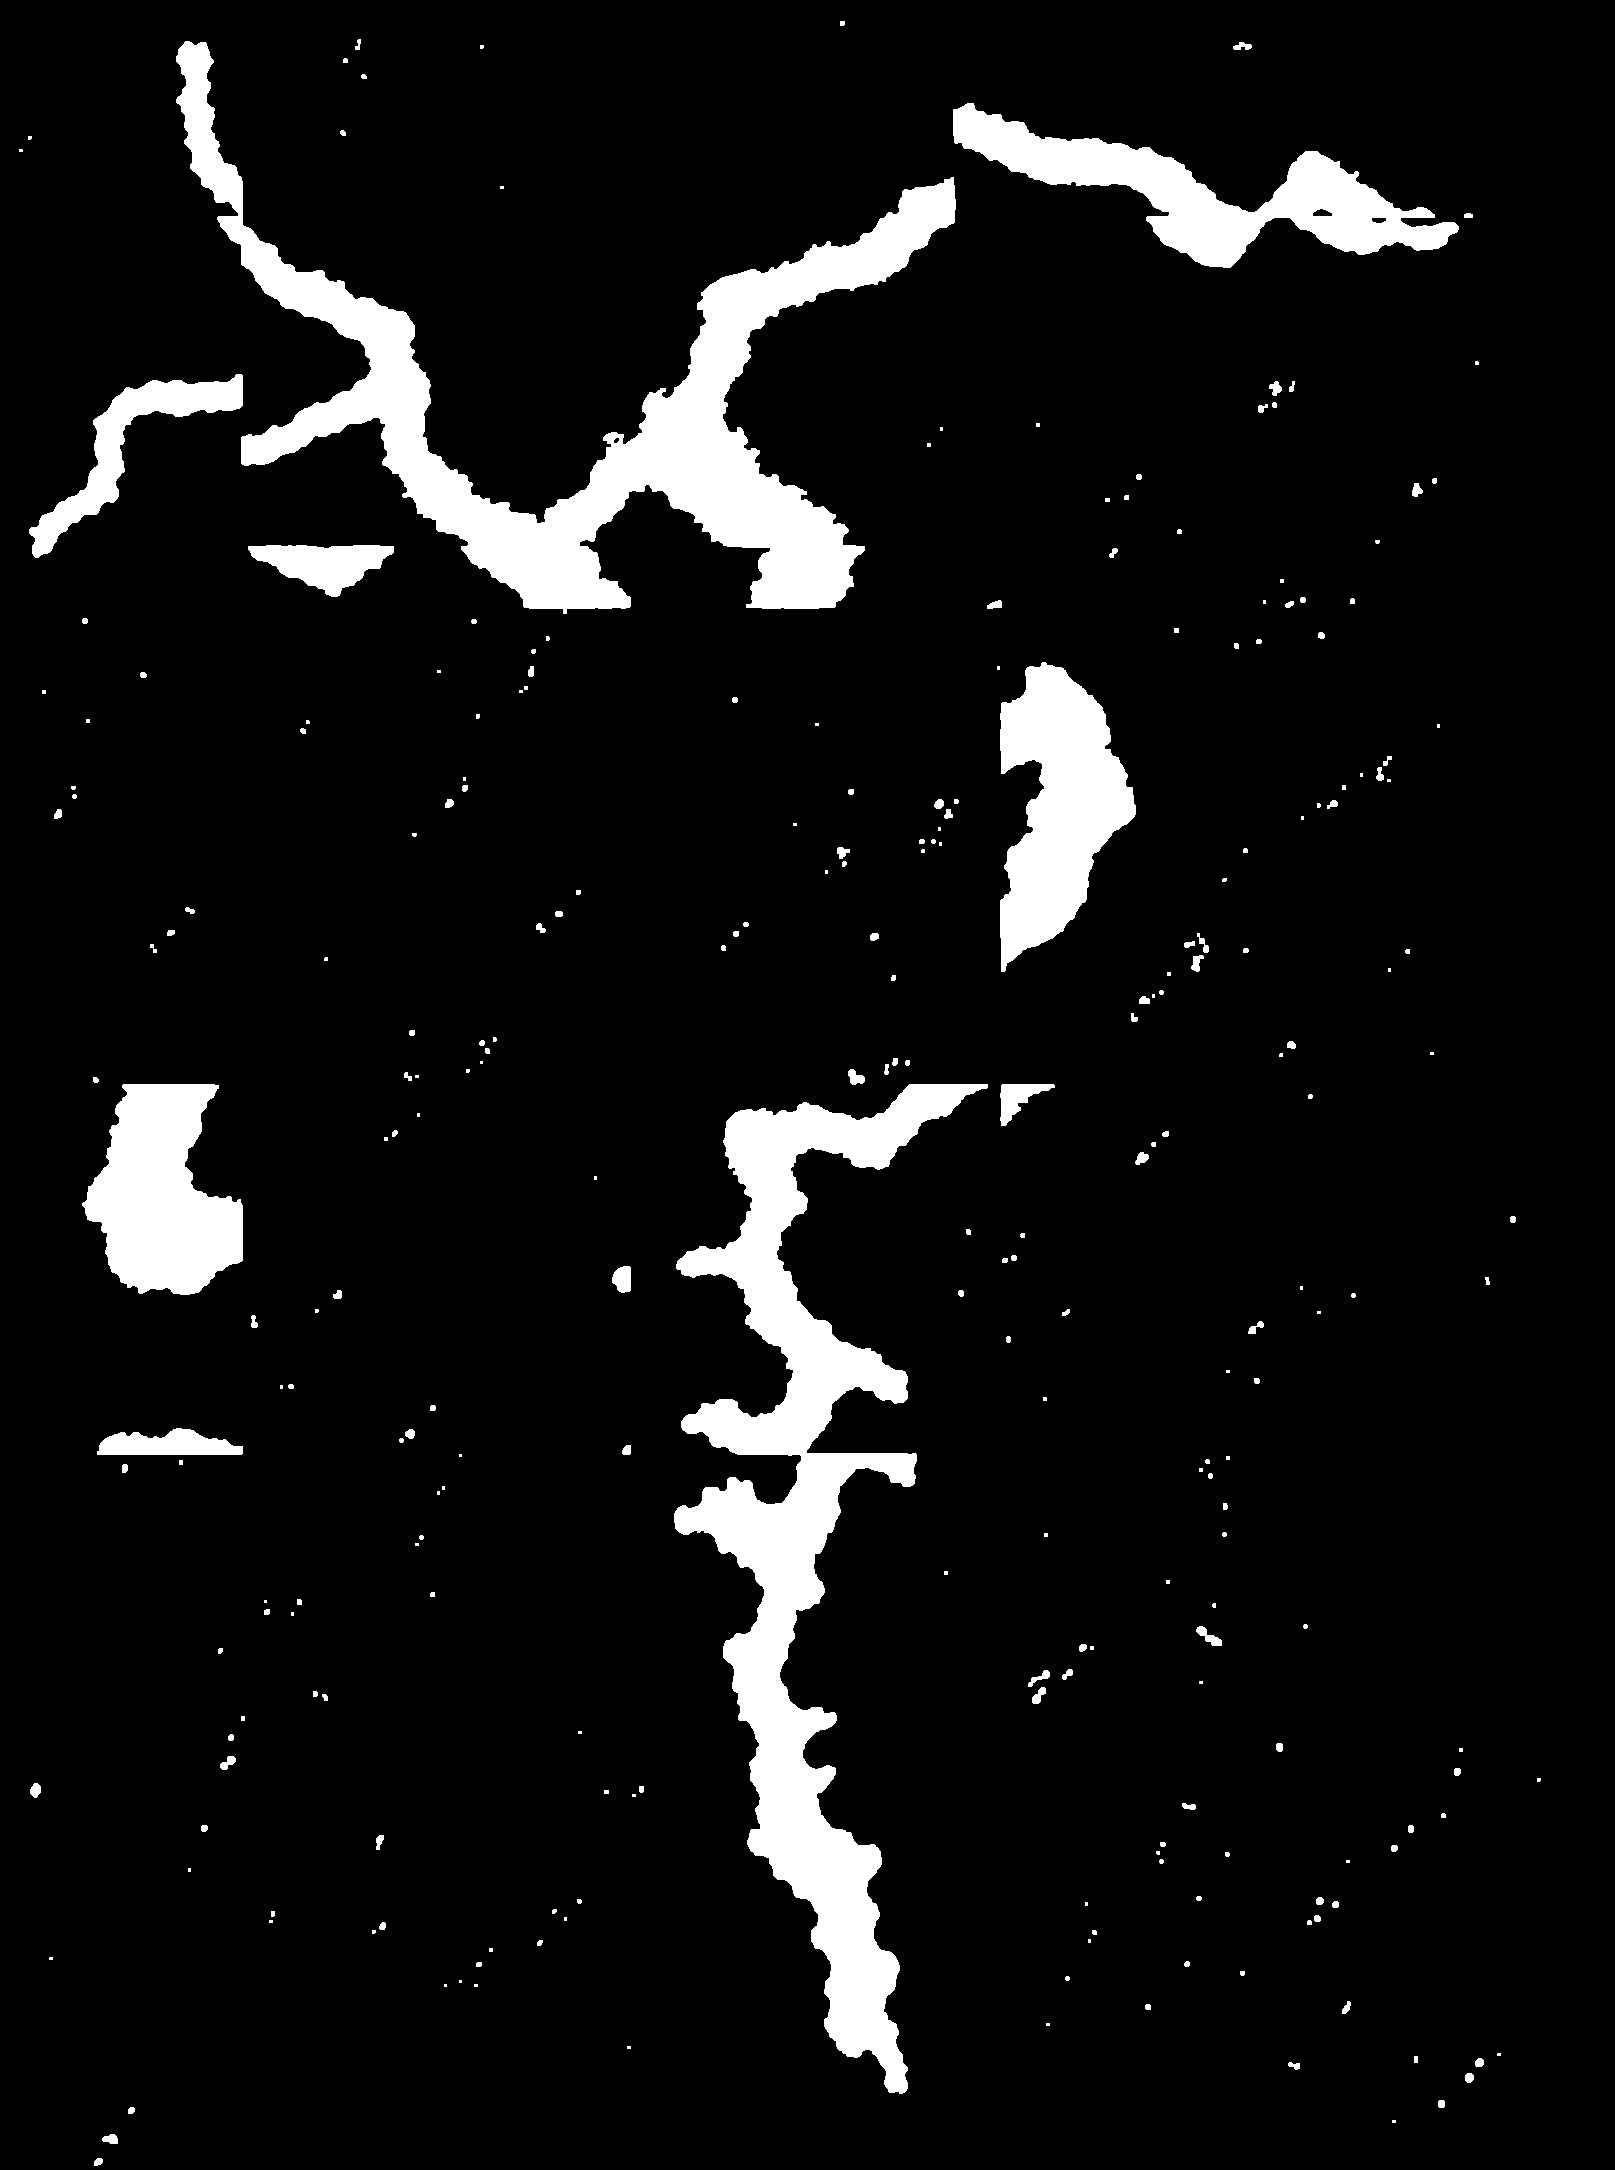
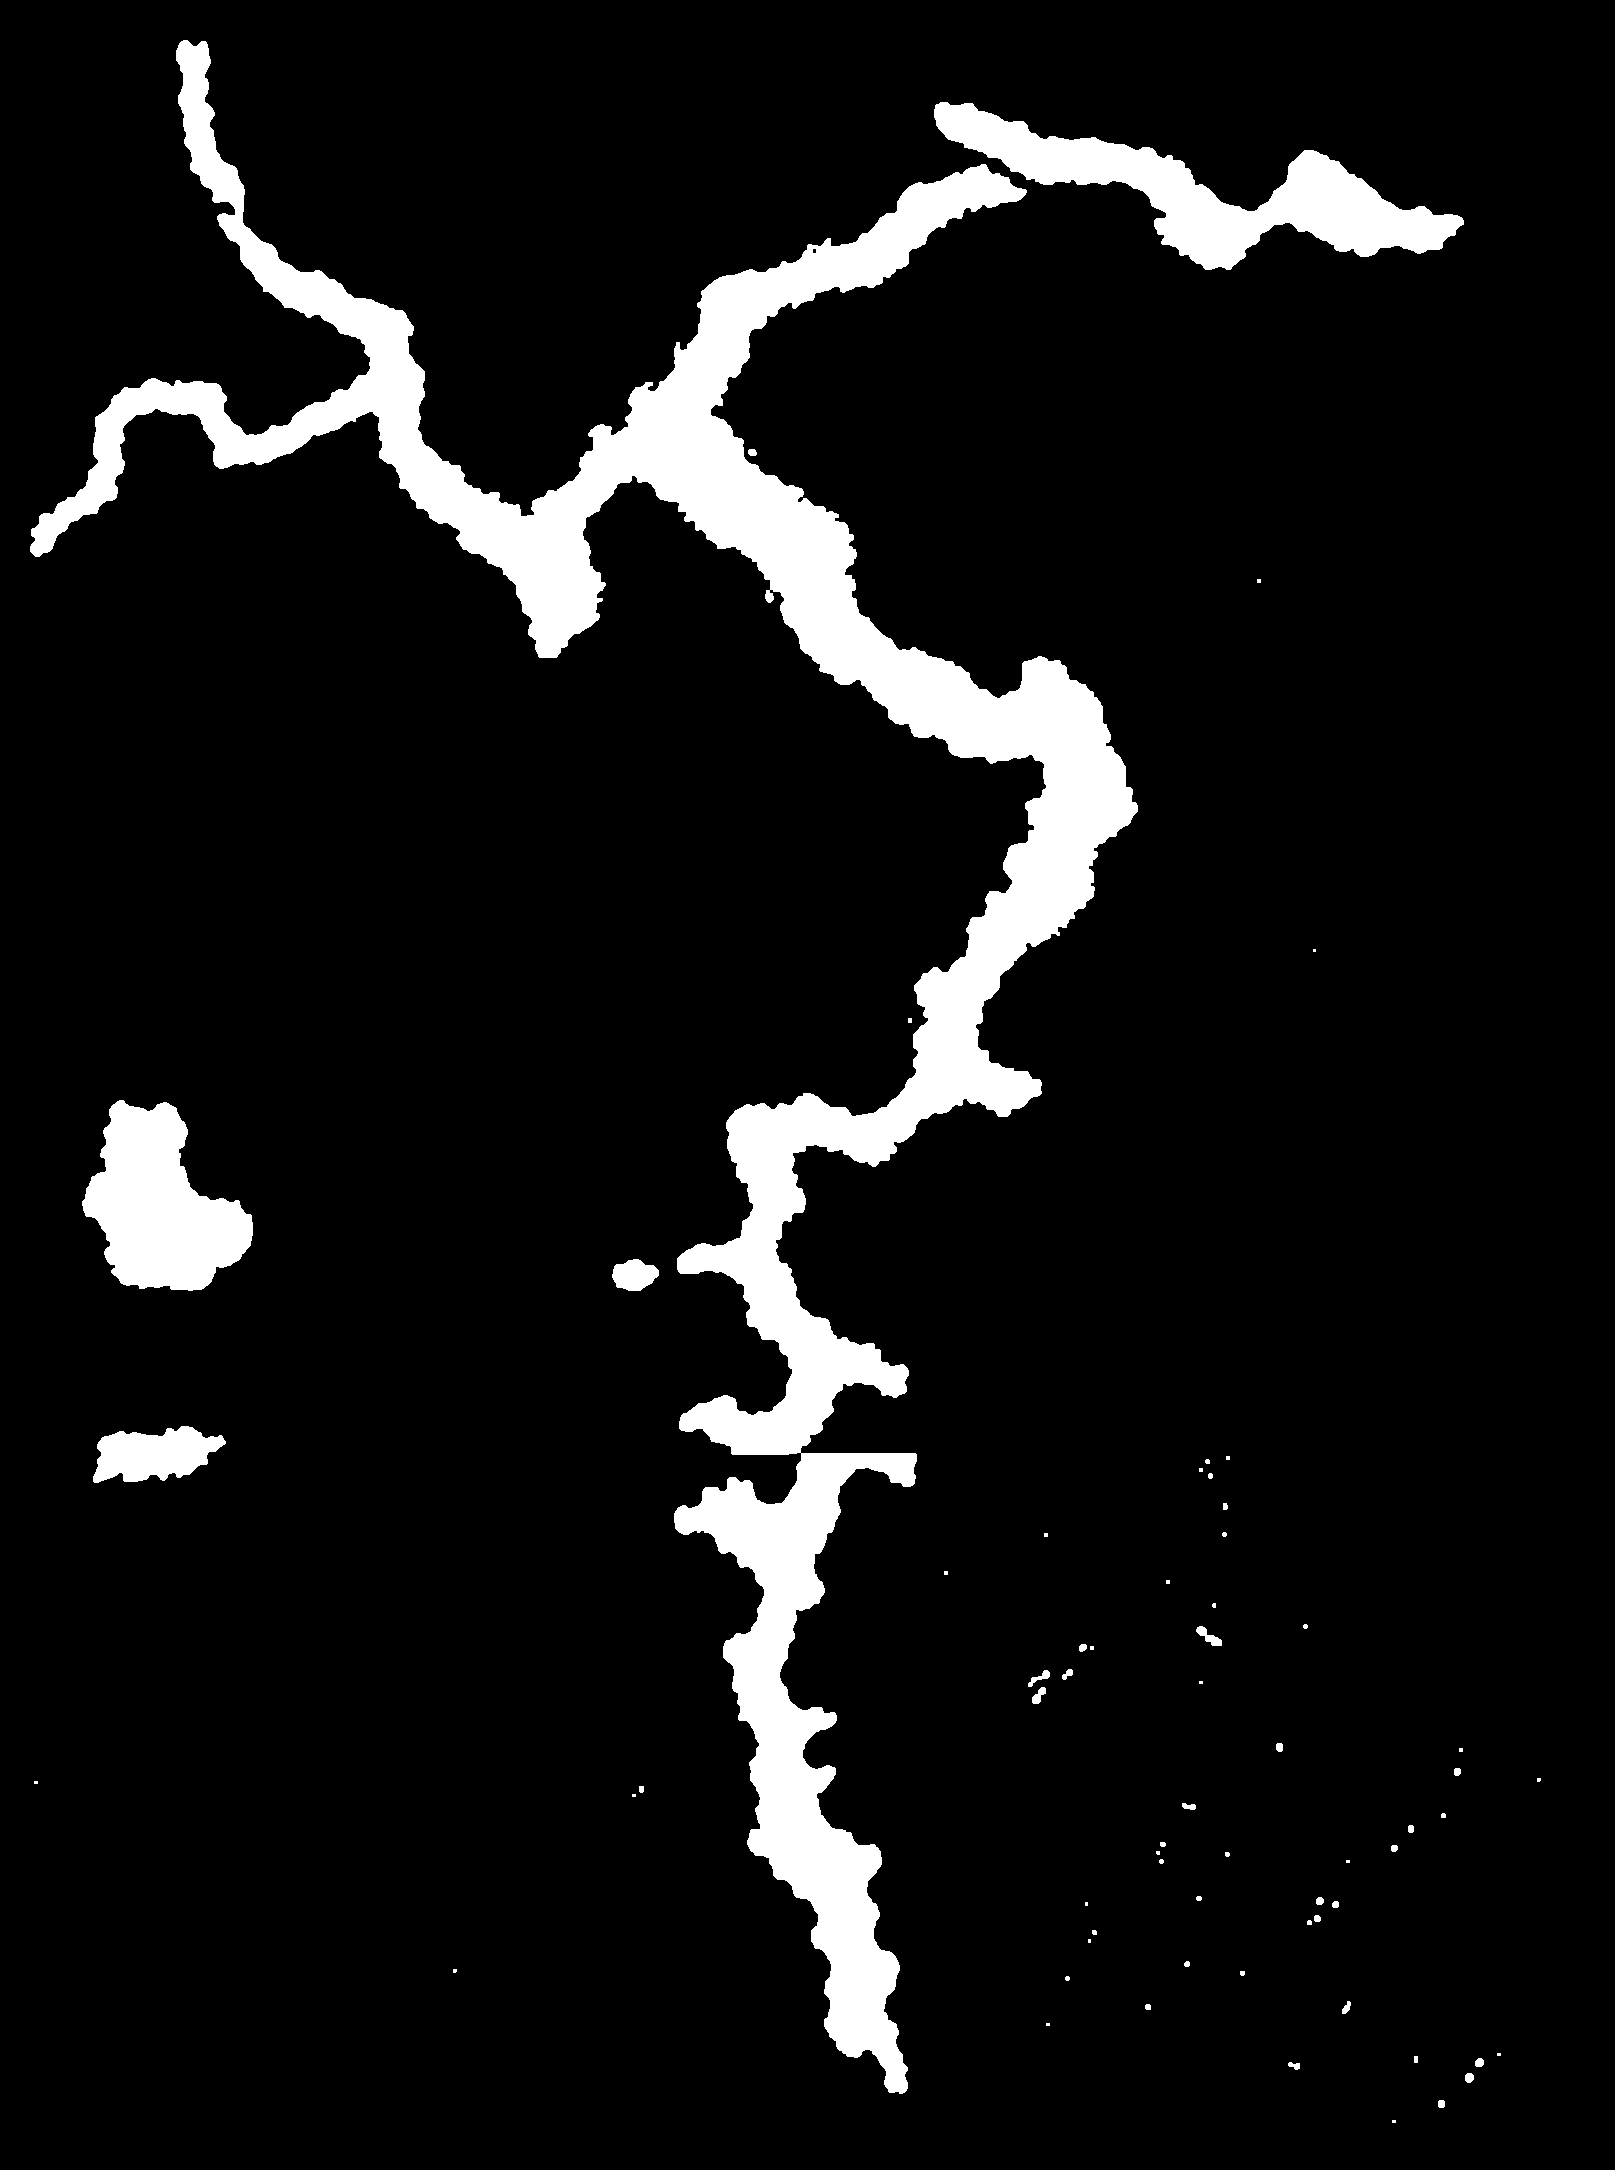
Add seamless eighteen-tile map

diff --git a/index.html b/index.html
@@ -1534,6 +1534,9 @@ const mapPresentationSettings = {
       return {
         id: String(index + 1).padStart(2, "0"),
         imagePath:
+          (index < 18
+            ? "seamless-map/"
+            : "") +
           "kanogawa_map_" +
           String(index + 1).padStart(2, "0") +
           ".png",

diff --git a/tools/test_navigation_mask.py b/tools/test_navigation_mask.py
@@ -29,17 +29,17 @@ def main() -> None:
         "dock start": (33.3, 24.3),
         "dock left water": (32.5, 24.3),
         "dock right water": (34.0, 24.3),
-        "deep water below dock": (33.3, 26.8),
-        "shallow water beside shore": (30.4, 26.1),
+        "deep water below dock": (33.3, 28.2),
+        "shallow water beside dock": (35.0, 25.0),
         "lower narrow channel": (50.0, 80.0),
         "upper inlet": (70.0, 8.0),
     }
     expected_blocked = {
-        "dock wood": (33.3, 23.8),
-        "shore left of dock basin": (29.5, 26.1),
-        "land below dock basin": (33.3, 28.2),
-        "central forest": (45.0, 40.0),
-        "lower forest": (44.0, 60.0),
+        "dock wood": (33.3, 22.8),
+        "shore left of dock basin": (30.0, 26.1),
+        "central forest": (50.0, 40.0),
+        "left forest": (20.0, 50.0),
+        "right forest": (80.0, 50.0),
     }
 
     for label, point in expected_water.items():

diff --git a/tools/generate_navigation_mask.py b/tools/generate_navigation_mask.py
@@ -78,7 +78,8 @@ def main() -> None:
     # Normal row-major z-order first; tile 02 remains the visual foreground tile.
     order = [index for index in range(20) if index != 1] + [1]
     for index in order:
-        path = ROOT / f"kanogawa_map_{index + 1:02d}.png"
+        tile_root = ROOT / "seamless-map" if index < 18 else ROOT
+        path = tile_root / f"kanogawa_map_{index + 1:02d}.png"
         with Image.open(path) as source:
             paste_clipped(visual, source.convert("RGB"), tile_frame(index))
 
